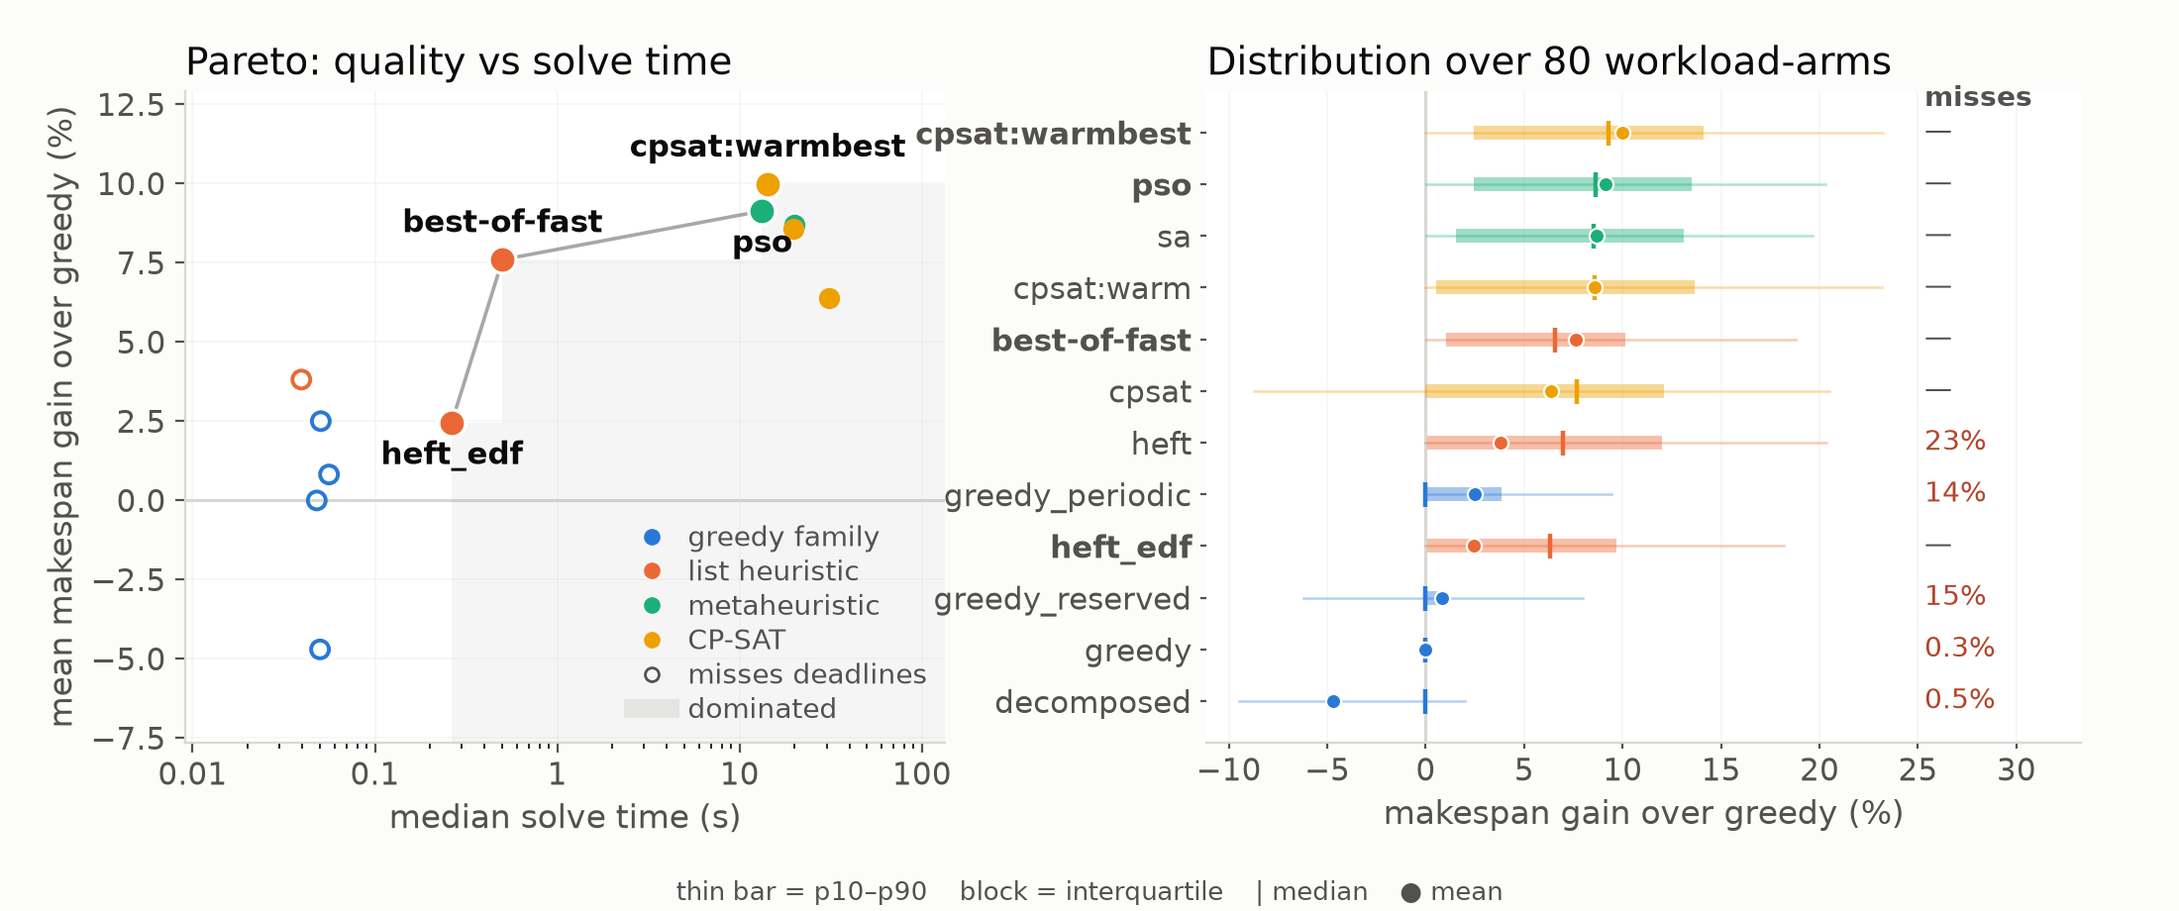
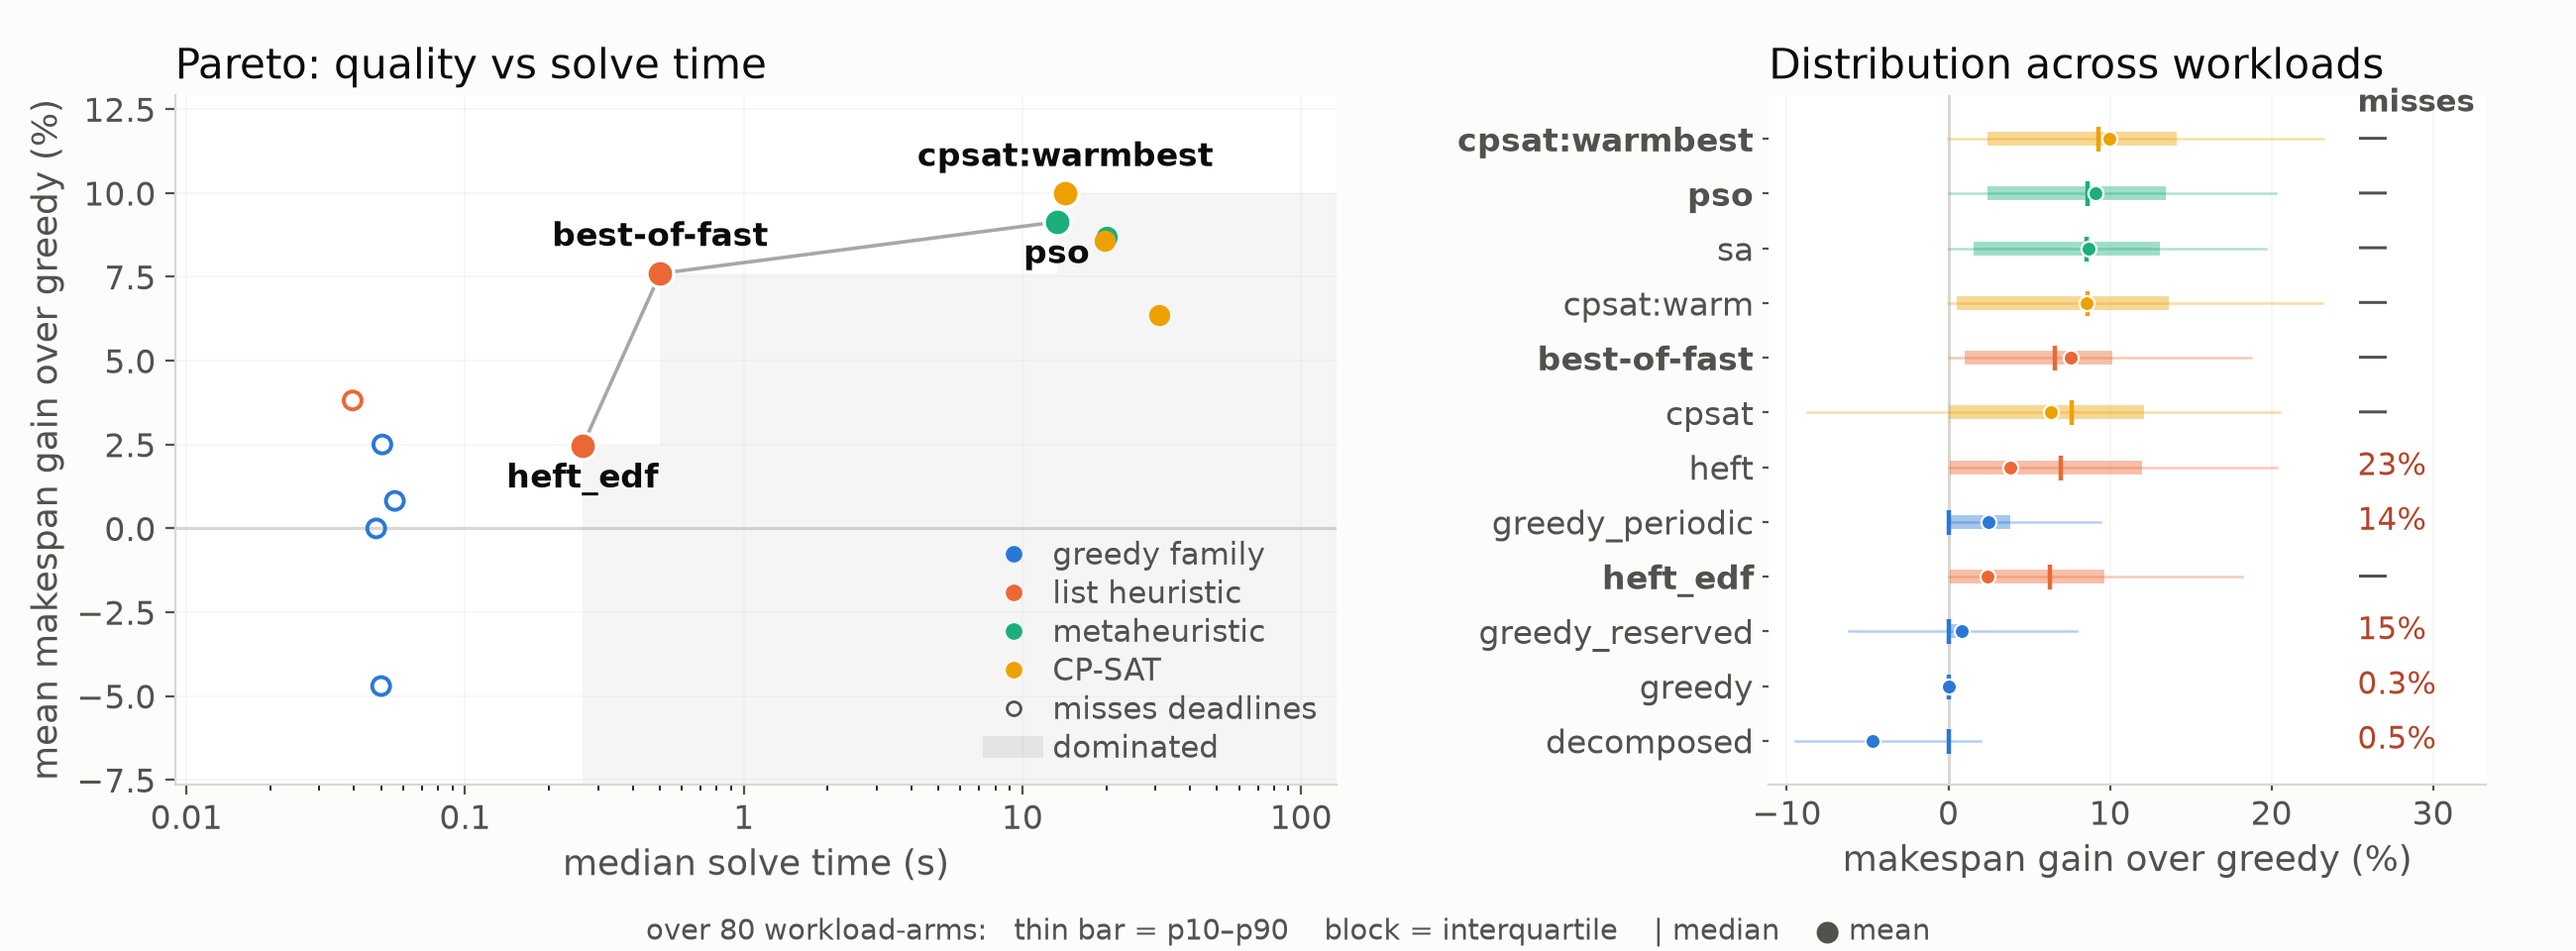
sched_algo_sweep10: two-column width, budget favouring the Pareto panel
9.4in wide, so it spans two columns without being scaled down. Width ratio goes
to 1.62:1 in the Pareto panel's favour -- it was 1:1.15 the wrong way, which
gave the majority of a full-width figure to the panel doing the lesser job.

Gutter widened from 0.30 to 0.46. The right panel's solver names are y tick
labels, so they grow leftward into the gap, and cpsat:warmbest was reaching
back into the left panel's plotting area.

Right panel title shortened to fit the narrower half; the sample size it used
to carry moved to the key line, which had room.

diff --git a/experiments/sched_algo_sweep10/scripts/plot_pareto_panels.py b/experiments/sched_algo_sweep10/scripts/plot_pareto_panels.py
@@ -39,8 +39,8 @@ FAMILY = {"greedy": "#2a78d6", "greedy_periodic": "#2a78d6",
 FAMNAME = {"#2a78d6": "greedy family", "#eb6834": "list heuristic",
            "#1baf7a": "metaheuristic", "#eda100": "CP-SAT"}
 INK, INK2, GRID = "#0b0b0b", "#52514e", "#d8d7d2"
-FIG = (11.0, 4.6) if WIDE else (7.6, 4.3)
-FT, FA, FK, FL, FG = (14, 12, 11, 11, 10) if WIDE else (11, 9.5, 8.5, 8.5, 8)
+FIG = (13.0, 4.8) if WIDE else (9.4, 4.2)
+FT, FA, FK, FL, FG = (15, 13, 12, 12, 11) if WIDE else (12.5, 11, 10, 10, 9.5)
 
 rows = [r for r in csv.DictReader(open(f"{R}/results.csv")) if r["family"] != "tight_loop"]
 base = {}
@@ -75,7 +75,7 @@ W = {s: (statistics.quantiles(sorted(imp[s]), n=10)[0],
          statistics.quantiles(sorted(imp[s]), n=10)[8]) for s in S}
 
 fig, (ax, bx) = plt.subplots(1, 2, figsize=FIG,
-                             gridspec_kw=dict(width_ratios=[1.0, 1.15], wspace=0.32))
+                             gridspec_kw=dict(width_ratios=[1.62, 1.0], wspace=0.46))
 
 # ---------------- left: Pareto ----------------
 clean = [s for s in S if M[s] < 0.05]
@@ -160,7 +160,7 @@ for sp in ("top", "right", "left"): bx.spines[sp].set_visible(False)
 bx.spines["bottom"].set_color(GRID)
 bx.tick_params(colors=INK2, labelsize=FK, length=2)
 bx.set_xlabel("makespan gain over greedy (%)", fontsize=FA, color=INK2)
-bx.set_title("Distribution over 80 workload-arms", fontsize=FT, color=INK, loc="left")
+bx.set_title("Distribution across workloads", fontsize=FT, color=INK, loc="left")
 
 
 # trailing column: the miss rate, attached to its own solver
@@ -177,9 +177,11 @@ bx.set_xlim(x0, xr * 1.34)
 # One key line for the whole figure: per-panel subtitles collided with the
 # titles and with each other at this width.
 fig.text(0.5, 0.012,
-         "thin bar = p10–p90    block = interquartile    | median    ● mean",
+         "over 80 workload-arms:   thin bar = p10–p90    block = interquartile"
+         "    | median    ● mean",
          fontsize=FG - 0.5, color=INK2, ha="center")
-fig.subplots_adjust(left=0.085 if WIDE else 0.105, right=0.955, top=0.90, bottom=0.185)
+fig.subplots_adjust(left=0.068 if WIDE else 0.085, right=0.965,
+                    top=0.90, bottom=0.175)
 out = os.path.join(os.path.dirname(HERE), "plots",
                    "solver_pareto_panels_wide.png" if WIDE else "solver_pareto_panels.png")
 fig.savefig(out, dpi=200, facecolor="#fcfcfb")
